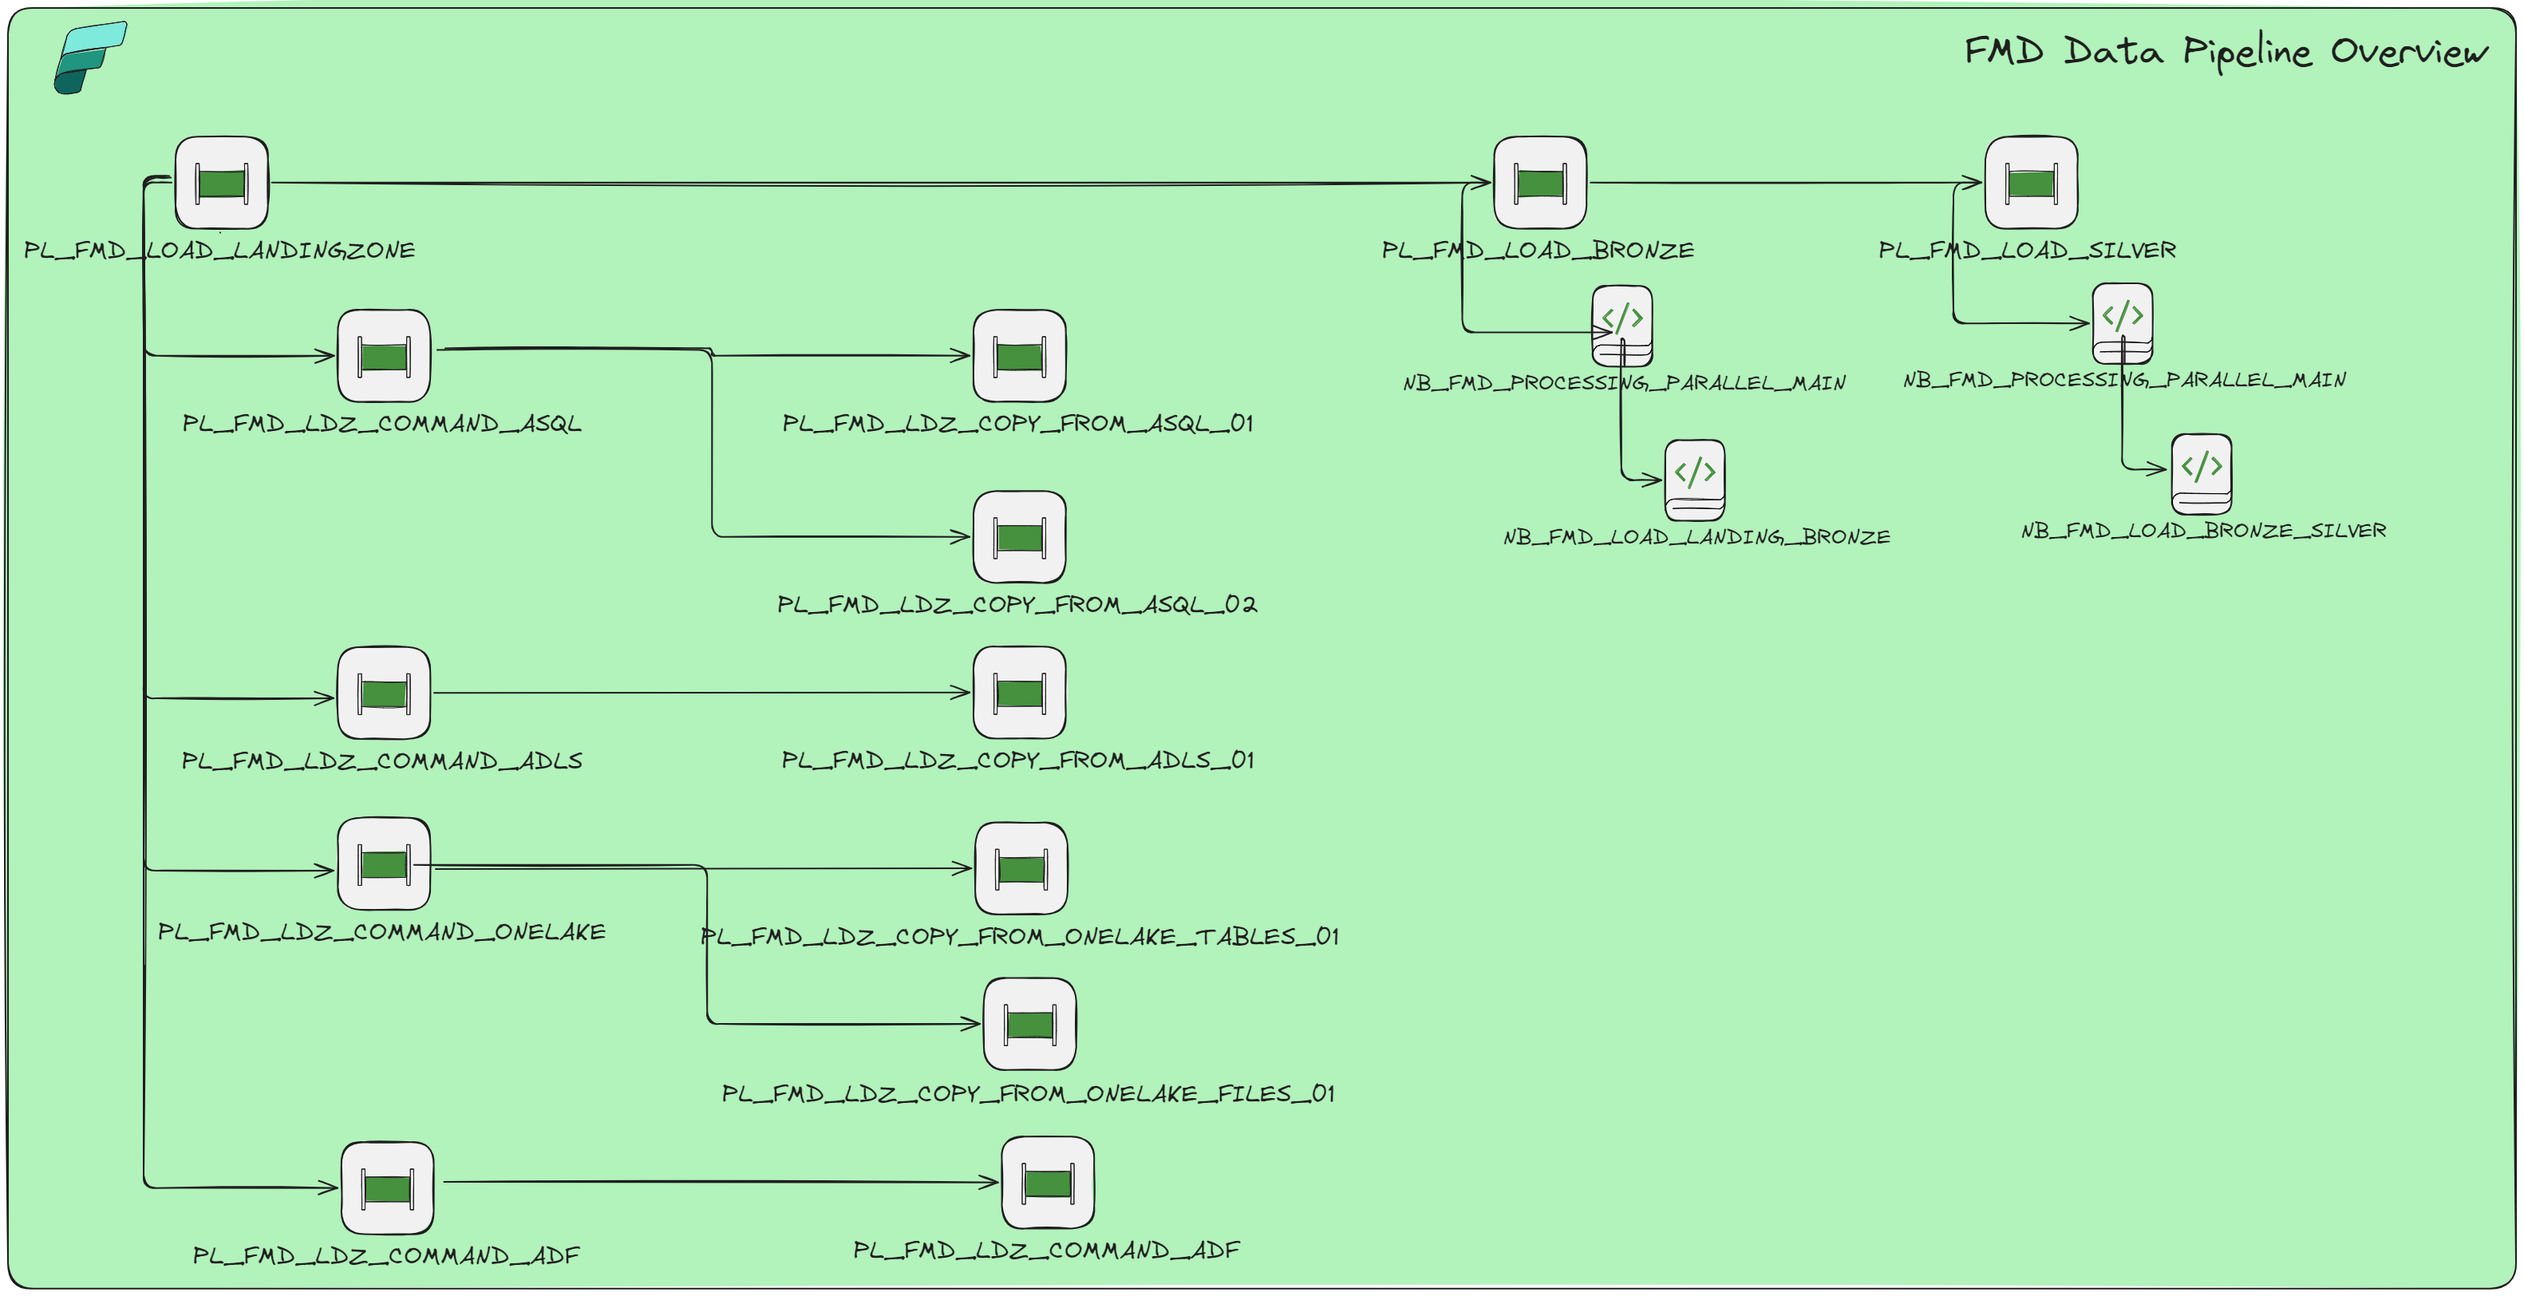
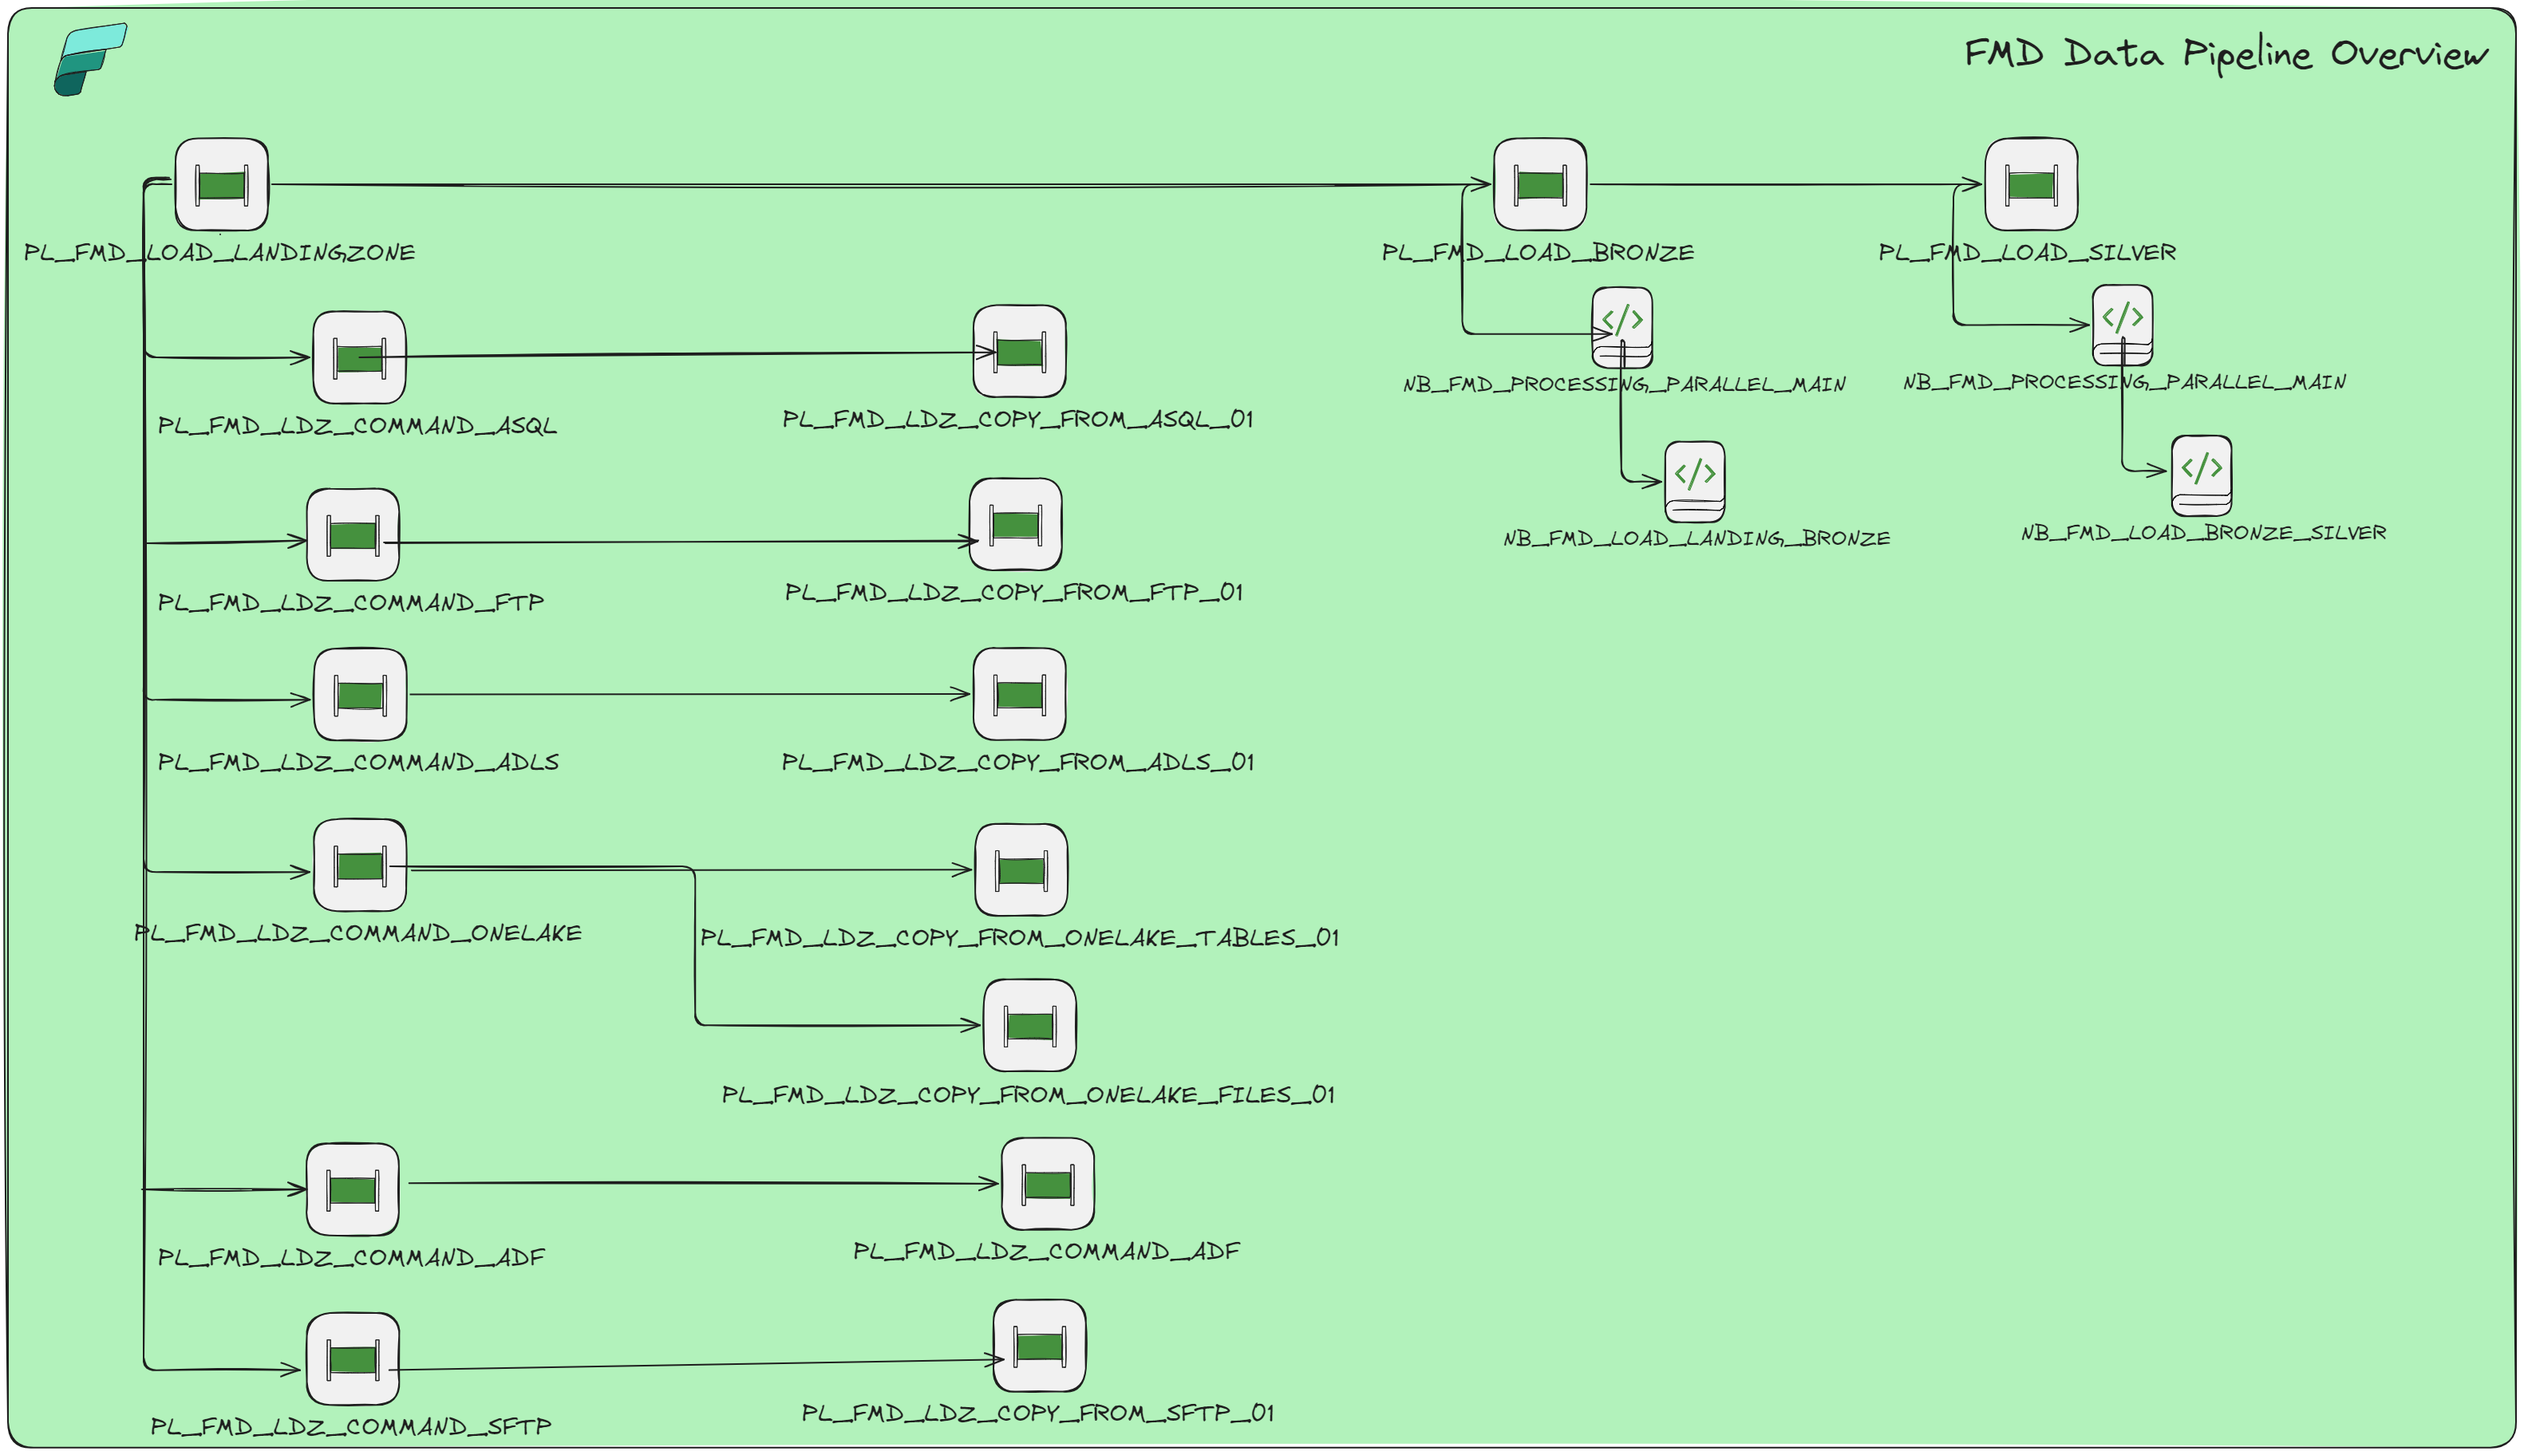
Updated Documentation and pipelines

diff --git a/FMD_FRAMEWORK_DEPLOYMENT.md b/FMD_FRAMEWORK_DEPLOYMENT.md
@@ -120,10 +120,11 @@ connections: Various connection identifiers for the environment.
 If you create a connection afterwards, you can update the deployment notebook and execute it again.
 	- CON_FMD_FSQL (is created in a earlier stage): fill in the guid
 	- CON_FMD_FABRICPIPELINES (is created in a earlier stage): fill in the guid
-	- CON_FMD_ASQL_01: Optional connection. Used if you want to connect to an Azure SQL database (default: None)
-	- CON_FMD_ASQL_02: optional connection. Used if you want to connect to an second Azure SQL database (default: None)
-	- CON_FMD_ADLS_02: optional connection. Used if you want to connect to an Azure Datalake storage (default: None)
-	- CON_FMD_ADF_PIPELINES: optional connection. Used if you want to run an Azure Datafactory Pipeline (default: None)
+	- CON_FMD_ASQL_01: Optional connection. Used if you want to connect to an Azure SQL database (default: '')
+	- CON_FMD_ADLS_01: optional connection. Used if you want to connect to an Azure Datalake storage (default: '')
+	- CON_FMD_ADF_PIPELINES: optional connection. Used if you want to run an Azure Datafactory Pipeline  (default: '')
+	- CON_FMD_FTP_01 : optional connection. Used if you want to connect to an FTP Server (default: '')
+    - CON_FMD_SFTP_01 : optional connection. Used if you want to connect to an SFTP Server (default: '')
 
 		```
 		environments = [
